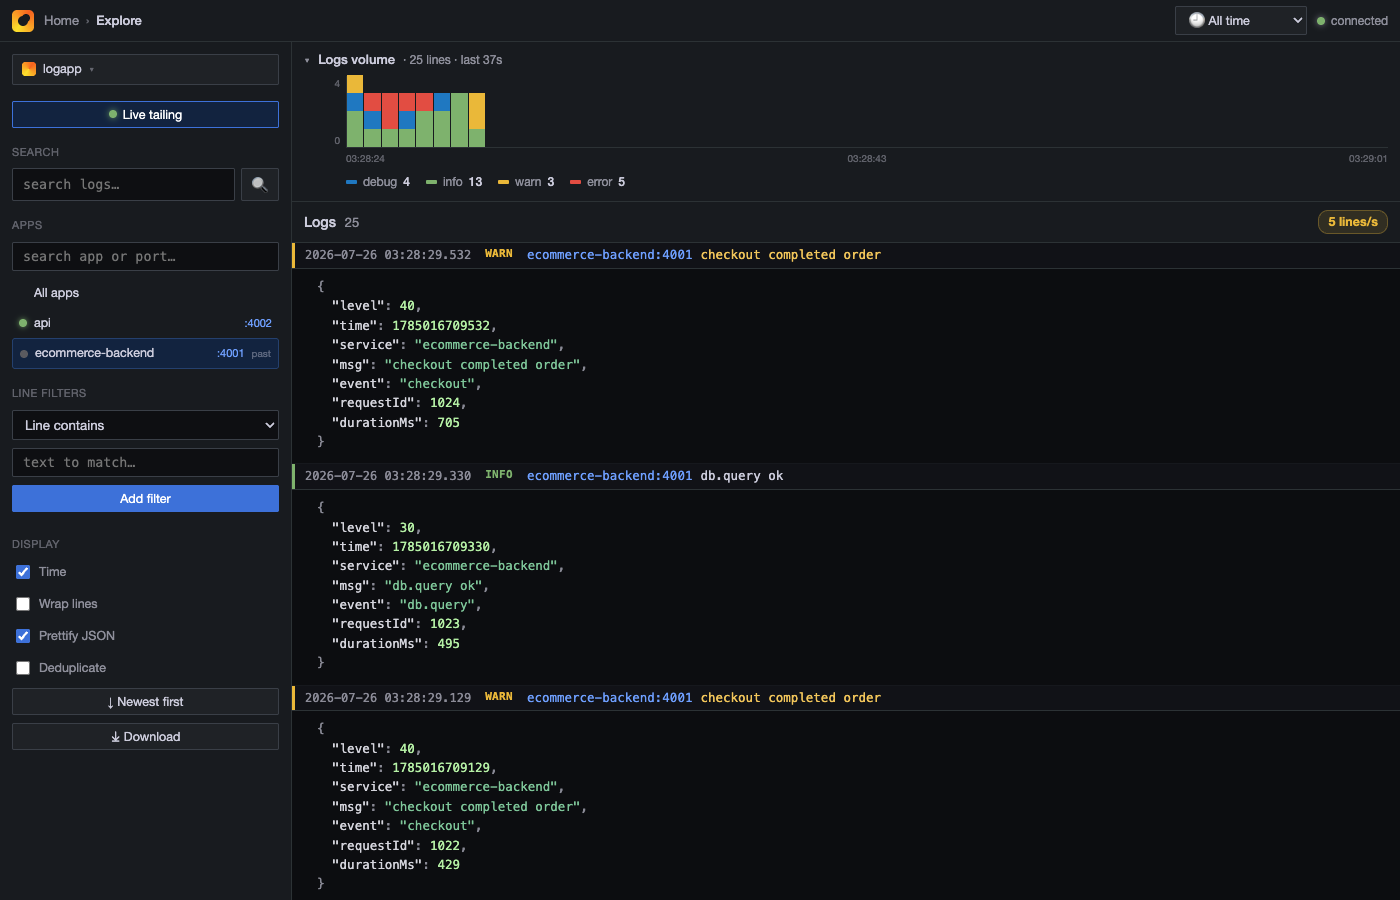
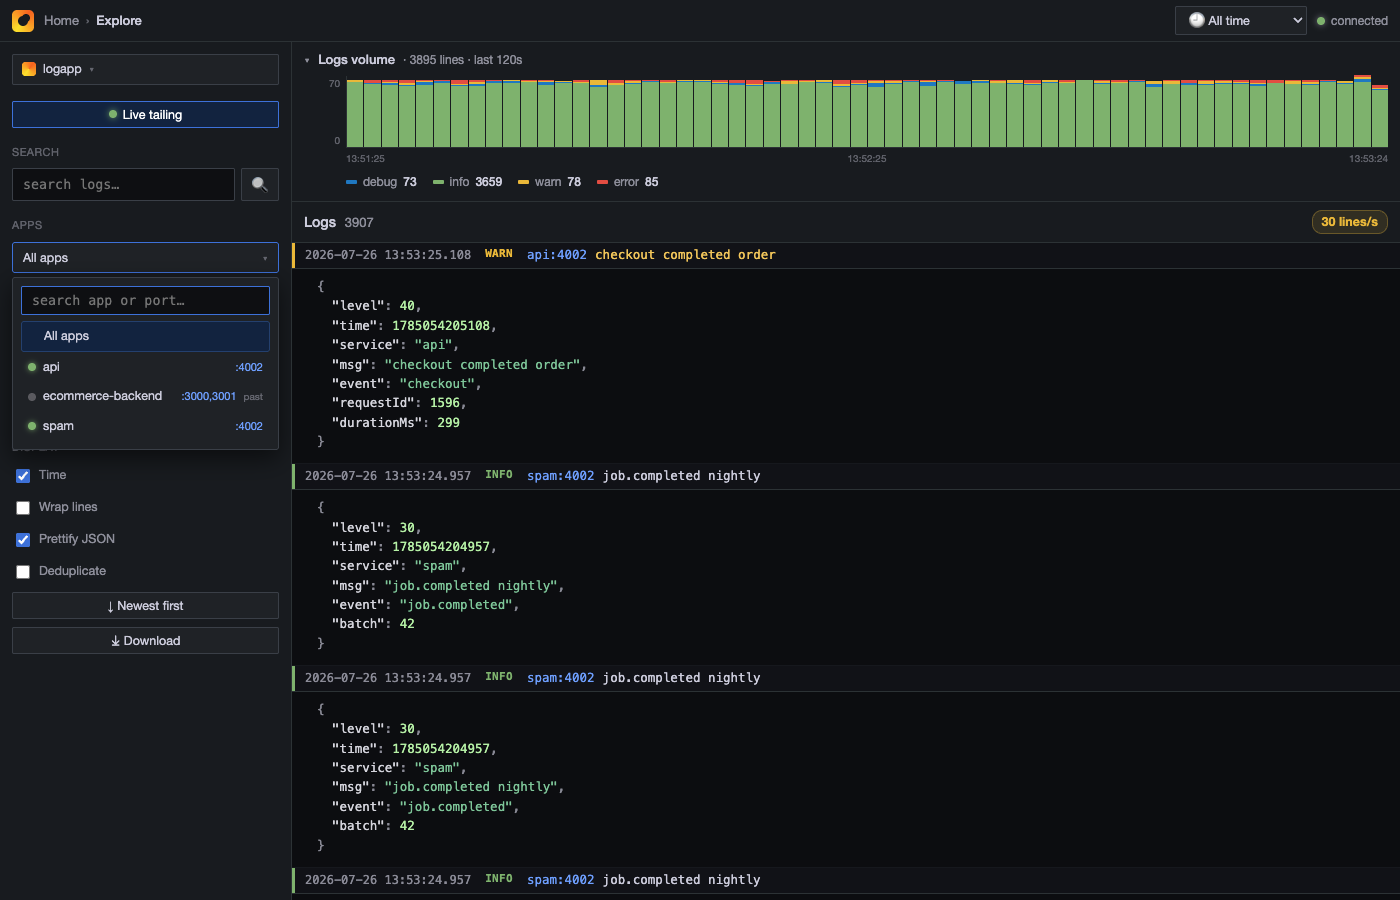
Apps dropdown + multi-port per repo (concurrent-safe)
- Apps list is now a click-to-open dropdown (trigger shows current selection);
  search inside by app name OR port; live (green) / past apps with their port(s).
- A repo can run on multiple ports at once (e.g. 3000 + 3001): both connections
  append to the same repo folder, the stream tracks a ports[] array and a
  connection ref-count. Kill one instance -> port drops, stays live; last one ->
  past. Concurrent writes are serialised per line (verified 0 corruption).
- Per-line source and the app row show all active ports (:3000,3001). Search
  matches any of a repo's ports. .ports.json stores repo -> [ports].
- Tests: backend E2E 12/12, full browser E2E 30/30 (core UI + apps dropdown +
  multi-port past-load + name/port search). Verified concurrent 3000+3001 ->
  single shared file, 0 corruption, ref-counted live/past.

diff --git a/public/index.html b/public/index.html
@@ -98,7 +98,14 @@
   .searchrow { display: flex; gap: 6px; }
   .searchrow .lin { flex: 1; }
   .searchrow .tbtn { flex: none; }
-  .applist { display: flex; flex-direction: column; gap: 1px; max-height: 220px; overflow-y: auto; }
+  .appdd { position: relative; }
+  .appddtrigger { display: flex; align-items: center; justify-content: space-between; width: 100%; background: var(--panel2); border: 1px solid var(--border2); color: var(--text); border-radius: 3px; padding: 7px 10px; cursor: pointer; font-size: 12.5px; }
+  .appddtrigger:hover { border-color: var(--blue); }
+  .appddtrigger .chev { color: var(--faint); }
+  .appddpanel { display: none; position: absolute; top: calc(100% + 4px); left: 0; right: 0; z-index: 18; flex-direction: column; gap: 6px;
+    background: var(--panel2); border: 1px solid var(--border2); border-radius: 3px; padding: 8px; box-shadow: 0 8px 24px rgba(0,0,0,.55); }
+  .appddpanel.open { display: flex; }
+  .applist { display: flex; flex-direction: column; gap: 1px; max-height: 240px; overflow-y: auto; }
   .approw { display: flex; align-items: center; gap: 7px; padding: 5px 7px; border-radius: 3px; cursor: pointer; font-size: 12.5px; user-select: none; }
   .approw:hover { background: var(--hover); }
   .approw.sel { background: var(--blue-bg); border: 1px solid #24406e; }
@@ -242,8 +249,13 @@
 
     <div class="sb-sec">
       <div class="sb-h">Apps</div>
-      <input id="appsearch" class="lin mono" placeholder="search app or port…" autocomplete="off" />
-      <div id="applist" class="applist"></div>
+      <div class="appdd">
+        <button id="appddtrigger" class="appddtrigger"><span id="appddlabel">All apps</span><span class="chev">▾</span></button>
+        <div id="appddpanel" class="appddpanel">
+          <input id="appsearch" class="lin mono" placeholder="search app or port…" autocomplete="off" />
+          <div id="applist" class="applist"></div>
+        </div>
+      </div>
     </div>
 
     <div class="sb-sec">
@@ -409,7 +421,7 @@ function rowHtml (ev, dupCount) {
   const t = showTime ? '<div class="t mono">' + fmtFull(ev.ts) + '</div>' : ''
   const lv = '<div class="lvl mono">' + ev.level.toUpperCase() + '</div>'
   let m = '<div class="m mono">'
-  if (showSrc) m += '<span class="src">' + esc(ev.stream) + (s && s.port ? ':' + esc(s.port) : '') + '</span>'
+  if (showSrc) m += '<span class="src">' + esc(ev.stream) + (s && s.ports && s.ports.length ? ':' + esc(s.ports.join(',')) : '') + '</span>'
   m += highlight(ev.msg || ev.raw)
   if (dupCount > 1) m += '<span class="dup">×' + dupCount + '</span>'
   m += '</div>'
@@ -574,8 +586,8 @@ function addEvent (ev, isLive) {
 }
 
 function applyStream (s) {
-  if (!streamState[s.name]) streamState[s.name] = { color: appColor(s.name), port: s.port || null, status: s.status || 'live' }
-  else { if ('port' in s) streamState[s.name].port = s.port; if (s.status) streamState[s.name].status = s.status }
+  if (!streamState[s.name]) streamState[s.name] = { color: appColor(s.name), ports: s.ports || [], status: s.status || 'live' }
+  else { if (s.ports) streamState[s.name].ports = s.ports; if (s.status) streamState[s.name].status = s.status }
   renderAppList()
 }
 
@@ -585,10 +597,11 @@ function renderAppList () {
   const rows = ['<div class="approw' + (appFilter ? '' : ' sel') + '" data-app=""><span class="adot" style="background:transparent"></span><span class="anm">All apps</span></div>']
   names.forEach((n) => {
     const s = streamState[n]
-    const port = s.port ? String(s.port) : ''
-    if (q && n.toLowerCase().indexOf(q) === -1 && port.indexOf(q) === -1) return
+    const ports = (s.ports || []).map(String)
+    const portStr = ports.join(',')
+    if (q && n.toLowerCase().indexOf(q) === -1 && ports.every((p) => p.indexOf(q) === -1)) return
     rows.push('<div class="approw ' + (s.status === 'live' ? 'live' : '') + (appFilter === n ? ' sel' : '') + '" data-app="' + esc(n) + '">' +
-      '<span class="adot"></span><span class="anm">' + esc(n) + '</span>' + (port ? '<span class="apt">:' + esc(port) + '</span>' : '') + (s.status !== 'live' ? '<span class="past">past</span>' : '') + '</div>')
+      '<span class="adot"></span><span class="anm">' + esc(n) + '</span>' + (portStr ? '<span class="apt">:' + esc(portStr) + '</span>' : '') + (s.status !== 'live' ? '<span class="past">past</span>' : '') + '</div>')
   })
   $('applist').innerHTML = rows.join('')
   Array.from($('applist').querySelectorAll('.approw')).forEach((el) => { el.onclick = () => selectApp(el.getAttribute('data-app')) })
@@ -596,6 +609,8 @@ function renderAppList () {
 
 function selectApp (name) {
   appFilter = name || ''
+  $('appddlabel').textContent = appFilter || 'All apps'
+  $('appddpanel').classList.remove('open')
   noMoreOlder = false
   renderAppList()
   if (appFilter) loadAppHistory(appFilter)
@@ -640,12 +655,14 @@ function connect () {
 function addFilter () { const v = $('lval').value.trim(); if (!v) return; lineFilters.push({ op: $('op').value, value: v }); $('lval').value = ''; renderActiveFilters(); scheduleRender(true); renderHistogram() }
 $('addf').onclick = addFilter
 $('lval').addEventListener('keydown', (e) => { if (e.key === 'Enter') addFilter() })
+$('appddtrigger').onclick = (e) => { e.stopPropagation(); const open = $('appddpanel').classList.toggle('open'); if (open) { renderAppList(); $('appsearch').focus() } }
+document.addEventListener('click', (e) => { if (!e.target.closest('.appdd')) $('appddpanel').classList.remove('open') })
 let apptimer
 $('appsearch').addEventListener('input', () => { appSearch = $('appsearch').value; clearTimeout(apptimer); apptimer = setTimeout(renderAppList, 100) })
 $('appsearch').addEventListener('keydown', (e) => {
   if (e.key !== 'Enter') return
   const q = appSearch.trim().toLowerCase(); if (!q) return
-  const byPort = Object.keys(streamState).find((n) => streamState[n].port && String(streamState[n].port) === q)
+  const byPort = Object.keys(streamState).find((n) => (streamState[n].ports || []).map(String).indexOf(q) !== -1)
   const byName = Object.keys(streamState).find((n) => n.toLowerCase() === q) || Object.keys(streamState).find((n) => n.toLowerCase().indexOf(q) !== -1)
   const pick = byPort || byName
   if (pick) selectApp(pick)

diff --git a/bin/logapp.js b/bin/logapp.js
@@ -222,12 +222,13 @@ async function runDaemon () {
   if (PERSIST) {
     try { fs.mkdirSync(LOGS_DIR, { recursive: true }) } catch (e) {}
     try { portsMap = JSON.parse(fs.readFileSync(PORTS_FILE, 'utf8')) } catch (e) { portsMap = {} }
+    for (const k in portsMap) { if (!Array.isArray(portsMap[k])) portsMap[k] = portsMap[k] ? [String(portsMap[k])] : [] }
     for (const repo of listRepos()) {
       const segs = listSegs(repo)
       if (!segs.length) continue
       let mtime = Date.now()
       try { mtime = fs.statSync(segPath(repo, segs[segs.length - 1])).mtimeMs } catch (e) {}
-      streams.set(repo, { name: repo, color: PALETTE[colorIdx++ % PALETTE.length], status: 'past', count: 0, lastTs: mtime, port: portsMap[repo] || null })
+      streams.set(repo, { name: repo, color: PALETTE[colorIdx++ % PALETTE.length], status: 'past', count: 0, lastTs: mtime, ports: (portsMap[repo] || []).slice(), conns: 0 })
     }
     setTimeout(pruneIdle, 500)
     setInterval(pruneIdle, 6 * 3600 * 1000)
@@ -239,20 +240,20 @@ async function runDaemon () {
       if (existing.status !== 'live') { existing.status = 'live'; broadcast({ type: 'stream', stream: existing }) }
       return existing
     }
-    const s = { name, color: PALETTE[colorIdx++ % PALETTE.length], status: 'live', count: 0, lastTs: Date.now(), port: portsMap[name] || null }
+    const s = { name, color: PALETTE[colorIdx++ % PALETTE.length], status: 'live', count: 0, lastTs: Date.now(), ports: (portsMap[name] || []).slice(), conns: 0 }
     streams.set(name, s)
     broadcast({ type: 'stream', stream: s })
     return s
   }
 
-  function detectPort (name, pgid, clientPid) {
+  function detectPort (name, pgid, clientPid, onFound) {
     if (!pgid) return
     let tries = 0
     const timer = setInterval(() => {
       tries++
       if (tries > 20) { clearInterval(timer); return }
       const s = streams.get(name)
-      if (!s || s.port) { clearInterval(timer); return }
+      if (!s) { clearInterval(timer); return }
       exec('ps -ax -o pid=,ppid=,pgid=', (e, psout) => {
         if (e || !psout) return
         const childrenOf = new Map()
@@ -283,7 +284,11 @@ async function runDaemon () {
           })
           if (found) {
             const st = streams.get(name)
-            if (st) { st.port = found; portsMap[name] = found; savePorts(); broadcast({ type: 'stream', stream: st }) }
+            if (st) {
+              if (st.ports.indexOf(found) === -1) { st.ports.push(found); broadcast({ type: 'stream', stream: st }) }
+              portsMap[name] = st.ports.slice(); savePorts()
+            }
+            if (onFound) onFound(found)
             clearInterval(timer)
           }
         })
@@ -393,9 +398,10 @@ async function runDaemon () {
     if (req.method === 'POST' && url.pathname === '/ingest') {
       const name = (url.searchParams.get('name') || 'stream').slice(0, 60)
       const s = registerStream(name)
-      if (s) s.port = null
+      if (s) s.conns = (s.conns || 0) + 1
       openFile(name)
-      detectPort(name, url.searchParams.get('pgid'), url.searchParams.get('pid'))
+      let connPort = null
+      detectPort(name, url.searchParams.get('pgid'), url.searchParams.get('pid'), (p) => { connPort = p })
       const splitter = new LineSplitter((line) => ingestEvent(parseLine(line, name)))
       req.setEncoding('utf8')
       req.on('data', (c) => splitter.push(c))
@@ -403,8 +409,14 @@ async function runDaemon () {
         splitter.end()
         res.writeHead(200); res.end('ok')
       })
-      req.on('close', () => { closeFile(name); setStreamStatus(name, 'past') })
-      req.on('error', () => { setStreamStatus(name, 'past') })
+      req.on('close', () => {
+        const st = streams.get(name)
+        if (!st) return
+        if (connPort) { const i = st.ports.indexOf(connPort); if (i !== -1) st.ports.splice(i, 1) }
+        st.conns = Math.max(0, (st.conns || 1) - 1)
+        if (st.conns === 0) { closeFile(name); st.status = 'past' }
+        broadcast({ type: 'stream', stream: st })
+      })
       return
     }
 

diff --git a/README.md b/README.md
@@ -108,10 +108,15 @@ Logs are persisted per **repo** (the stream name), not per port:
   `unlink`ed — no giant-file rewrite, so it scales to huge logs without I/O
   storms (the standard log-segmentation / retention-by-segment pattern used by
   Loki, Elasticsearch ILM, logrotate).
-- **Apps panel** lists every repo — **live** (green dot, currently streaming) and
-  **past** (stopped, still on disk within 7 days). Search by **app name or port**;
-  selecting an app streams its history back from disk (`/query`, reverse-read),
-  and all filters (level, line, search, time) apply to the old logs too.
+- **Apps dropdown** lists every repo — **live** (green dot, currently streaming)
+  and **past** (stopped, still on disk within 7 days). Click to open, then search
+  by **app name or port**; selecting an app streams its history back from disk
+  (`/query`, reverse-read) and all filters (level, line, search, time) apply to the
+  old logs too.
+- **Same repo on multiple ports** (e.g. `3000` and `3001` at once) is one app: both
+  streams append to the same repo folder (Node serialises each line write, so no
+  corruption), it shows every active port (`:3000,3001`), and stays **live** via a
+  connection ref-count until the last instance stops.
 
 In memory the daemon keeps a bounded ring (`LOGAPP_BUFFER`, default 20000) and
 ships only the last `LOGAPP_SNAPSHOT` (4000) lines to a new tab, so Chrome stays
